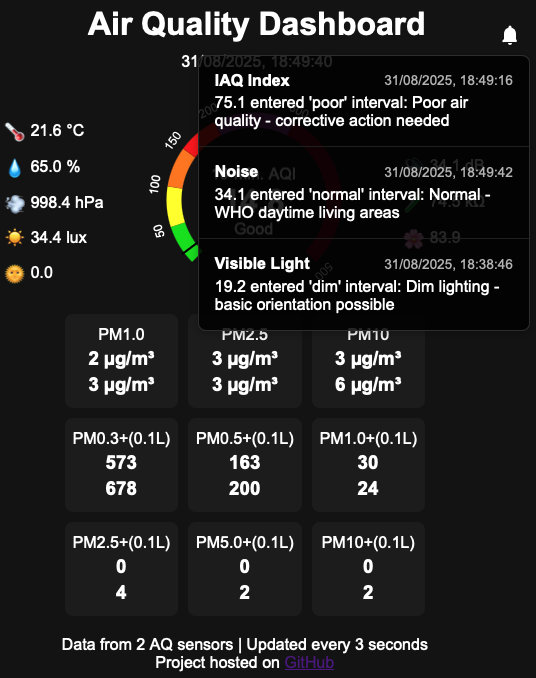
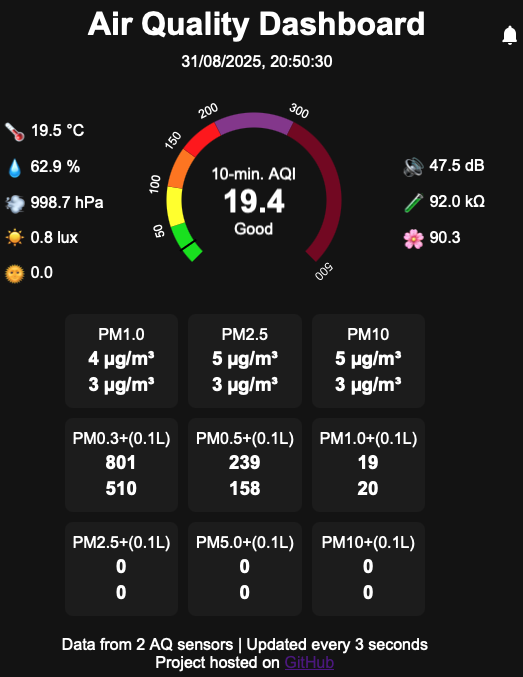
Updates dashboard screenshots in README
Replaces the single dashboard screenshot in the README with two screenshots: one showing the main dashboard and another showing the dashboard with notifications.

This provides a more complete view of the application's user interface and functionality.

diff --git a/README.md b/README.md
@@ -91,7 +91,10 @@ Start the server with:
 
 Access the server at: https://\<server URL\>:8888
 
-![AQD](screenshots/aq_dashboard.png "Air Quality Dashboard")
+<p align="center">
+  <img src="screenshots/aq_dashboard.png" alt="Air Quality Dashboard" width="45%">
+  <img src="screenshots/aq_dashboard_notifications.png" alt="Air Quality Dashboard with Notifications" width="45%">
+</p>
 
 Left Column Values:
 
